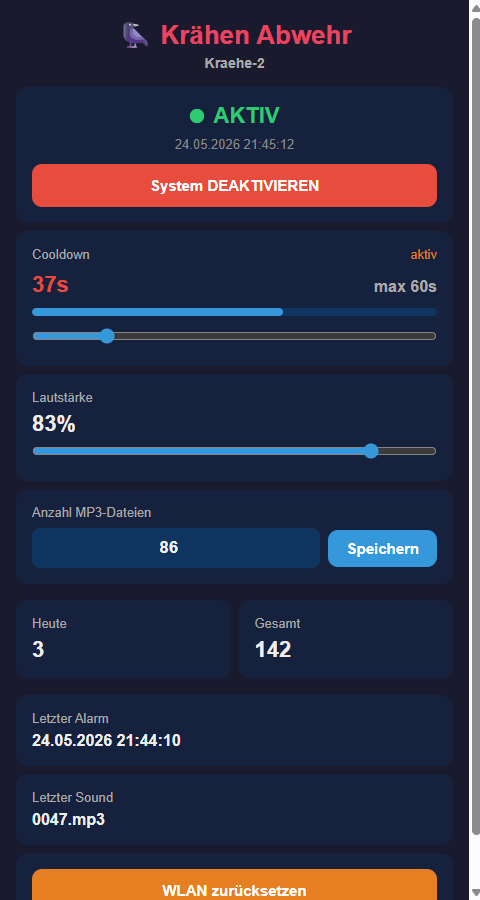
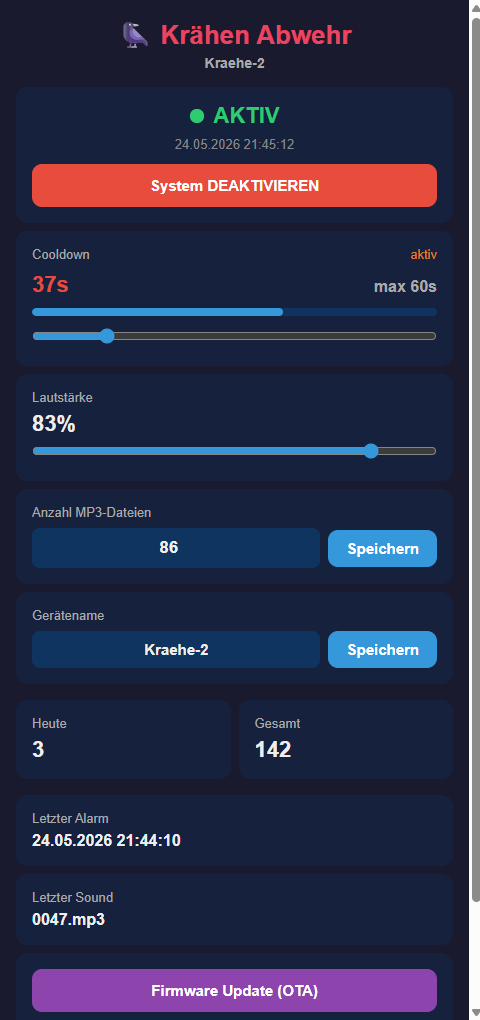
Update dashboard screenshot and README for OTA + device name

diff --git a/Readme.md b/Readme.md
@@ -18,6 +18,8 @@ Designed to scare away woodpeckers, crows, and other birds from wooden structure
 - NTP time sync
 - WiFi setup via captive portal (no hardcoded credentials)
 - Accessible via mDNS hostname (e.g. `kraehe-1.local`)
+- Device name configurable via dashboard — persisted in flash, survives OTA
+- OTA firmware update directly via browser (no USB required after first flash)
 
 ## Hardware
 
@@ -68,15 +70,16 @@ mp3/
 
 ## Configuration
 
-Edit these values at the top of `src/main.cpp`:
+All settings are configurable at runtime via the dashboard. The only values in `src/main.cpp` are defaults:
 
 | Variable | Default | Description |
 |---|---|---|
-| `deviceName` | `"Kraehe-1"` | Device hostname, WiFi AP name, and dashboard title |
-| `SOUND_COUNT` | `86` | Number of MP3 files on SD card (also adjustable via dashboard) |
+| `SOUND_COUNT` | `86` | Number of MP3 files (also adjustable via dashboard) |
 | `NO_REPEAT_LAST` | `5` | Minimum different sounds before a sound may repeat |
-| `COOLDOWN_SEC` | `60` | Seconds between triggers — default only, adjustable via dashboard |
-| `VOLUME` | `25` | Initial volume 0–30 — default only, adjustable via dashboard |
+| `COOLDOWN_SEC` | `60` | Seconds between triggers — default, adjustable via dashboard |
+| `VOLUME` | `25` | Initial volume 0–30 — default, adjustable via dashboard |
+
+The **Gerätename** (`Kraehe-1`, `Kraehe-2`, …) is set once per device via the dashboard after first boot and persisted in flash — it survives OTA updates.
 
 ## Installation
 
@@ -90,45 +93,50 @@ Edit these values at the top of `src/main.cpp`:
    git clone https://github.com/Psyobilin/crow-deterrent.git
    ```
 2. Open in VS Code — PlatformIO detects the project automatically
-3. Set `deviceName` in `src/main.cpp` (see WiFi Setup and Multiple Devices below)
-4. Connect ESP32 S2 Mini via USB
-5. Click Upload (→) in PlatformIO
-6. Hold BOOT button when `Waiting for upload port...` appears
-7. After flashing, proceed with WiFi Setup
+3. Connect ESP32 S2 Mini via USB and flash:
+   - Click Upload (→) in PlatformIO
+   - Hold BOOT button when `Waiting for upload port...` appears
+4. Proceed with WiFi Setup and device naming below
 
 ## WiFi Setup
 
-On first boot the ESP32 opens a WiFi access point named after the device (e.g. `Kraehe-1`).
+On first boot the ESP32 opens a WiFi access point named `Kraehe`.
 
 1. Connect your phone or laptop to that network
 2. A captive portal opens automatically — enter your home WiFi credentials
 3. The ESP32 saves the credentials to flash and restarts
 
-From then on the device connects automatically on every boot. No hardcoded credentials are needed.
+From then on the device connects automatically on every boot.
 
-**To reset WiFi:** use the "WLAN zurücksetzen" button in the dashboard. The device restarts and opens the access point again.
+**To reset WiFi:** use the "WLAN zurücksetzen" button in the dashboard.
 
 ## Dashboard
 
-Access the web dashboard via:
+Access via:
 
 - **IP address** — shown in the serial monitor on boot (`Verbunden! IP: 192.168.x.x`)
-- **mDNS hostname** — `kraehe-1.local` (works on most systems without extra setup)
+- **mDNS hostname** — `kraehe-x.local` (after setting the device name, see below)
 
 The dashboard polls the device every 3 seconds and updates all values live without a page reload.
 
 ## Multiple Devices
 
-7 units are in use. For each device, only `deviceName` in `src/main.cpp` needs to change — it determines:
-- the WiFi access point name shown during first-boot setup
-- the mDNS hostname (`kraehe-x.local`)
-- the title shown in the dashboard
+7 units are in use. After first boot, open the dashboard and set the **Gerätename** field (e.g. `Kraehe-3`). The device restarts and is then reachable as `kraehe-3.local`. Each device only needs to be USB-flashed once — all future updates go via OTA.
 
-Every device gets its own compiled firmware. All other settings (volume, cooldown) are configured per-device via the dashboard after flashing.
+## OTA Firmware Update
+
+After making code changes:
+
+1. Build in PlatformIO → generates `.pio/build/lolin_s2_mini/firmware.bin`
+2. Open `kraehe-x.local/update` in the browser
+3. Select the `.bin` file → **Hochladen & Flashen**
+4. The device flashes itself and reboots — Gerätename and all settings are preserved
+
+No USB connection required.
 
 ## Notes
 
 - The RCWL-0516 sensor detects through plastic enclosures — ideal for weatherproof housings
 - Wrap the sensor partially with aluminium foil to reduce detection range/angle
-- `SOUND_COUNT` and dashboard-adjusted settings are persisted in flash across reboots
+- All dashboard settings (volume, cooldown, sound count, device name) are persisted in flash
 - NTP time sync requires a WiFi connection; the system runs fully offline without it
